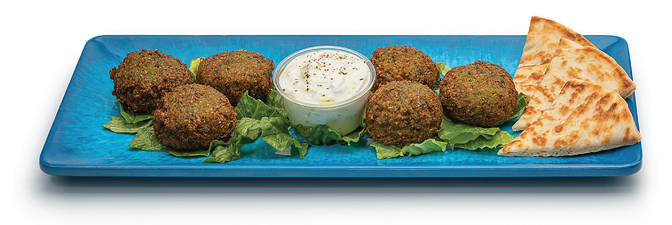
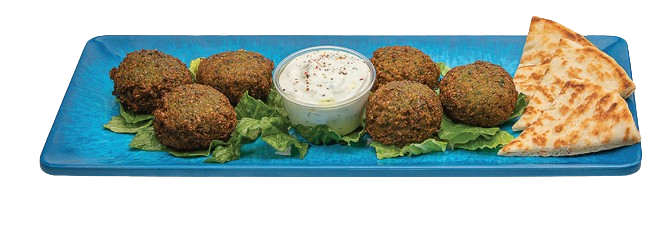
last version

diff --git a/index.html b/index.html
@@ -227,8 +227,11 @@
                 <p>
                   The Federal Trade Commission regulates what
                   <span>Spartan Gyros®</span> is allowed to disclose to
-                  potential franchisees. As you follow the process of purchasing
-                  a <span>Spartan Gyros®</span> business, you will receive the
+                  potential franchisees.
+                  <br />
+                  <br />
+                  As you follow the process of purchasing a
+                  <span>Spartan Gyros®</span> business, you will receive the
                   Franchise Disclosure Document (FDD) that details more about
                   the business opportunity and your expected startup expenses.
                 </p>
@@ -312,47 +315,56 @@
           <div class="respond-bloc-content">
             <div class="respond-header">
               <img src="/icons/ic_check.svg" alt="" />
-              <h1>Will you train the store’s employees?</h1>
+              <div>
+                <h1>Will you train the store’s employees?</h1>
+                <p>
+                  Initially, you must have two full-time people working the
+                  business, one of which must be you. One must be responsible
+                  for business operations and management; the other must always
+                  be a
+                  <span
+                    >Certified Spartan Gyros Specialist (SPARTAN GYROS
+                    SPECIALIST).</span
+                  >
+                  Both of you must successfully complete our initial training
+                  program. We will decide whether you and your
+                  <span>SPARTAN GYROS SPECIALIST</span>successfully complete the
+                  initial training program based upon knowledge test results and
+                  our observations of your ability to use the knowledge
+                  effectively.
+                </p>
+              </div>
             </div>
-            <p>
-              Initially, you must have two full-time people working the
-              business, one of which must be you. One must be responsible for
-              business operations and management; the other must always be a
-              <span
-                >Certified Spartan Gyros Specialist (SPARTAN GYROS
-                SPECIALIST).</span
-              >
-              Both of you must successfully complete our initial training
-              program. We will decide whether you and your
-              <span>SPARTAN GYROS SPECIALIST</span>successfully complete the
-              initial training program based upon knowledge test results and our
-              observations of your ability to use the knowledge effectively.
-            </p>
           </div>
         </div>
         <div class="respond-bloc">
           <div class="respond-bloc-content">
             <div class="respond-header">
               <img src="/icons/ic_check.svg" alt="" />
-              <h1>How can you guarantee top quality products?</h1>
+              <div>
+                <h1>How can you guarantee top quality products?</h1>
+                <p>
+                  <span>At Spartan Gyros, quality is our priority: </span>
+                  <br />
+                  <br />
+                  <span>Premium Sourcing:</span> We select the finest local
+                  ingredients for authentic Greek flavors.
+                  <br />
+                  <br />
+                  <span>Expert Chefs:</span> Our skilled chefs ensure excellence
+                  in every dish, emphasizing freshness and taste.
+                  <br />
+                  <br />
+                  <span>Stringent Control: </span> We maintain strict quality
+                  control measures at every stage of preparation.
+                  <br />
+                  <br />
+                  <span>Freshness Commitment:</span> Our menu highlights the
+                  vibrant taste that comes from using only the freshest
+                  ingredients.
+                </p>
+              </div>
             </div>
-            <p>
-              <span>At Spartan Gyros, quality is our priority: </span> <br />
-              <span>Premium Sourcing:</span> We select the finest local
-              ingredients for authentic Greek flavors.
-              <br />
-              <br />
-              <span>Expert Chefs:</span> Our skilled chefs ensure excellence in
-              every dish, emphasizing freshness and taste.
-              <br />
-              <br />
-              <span>Stringent Control: </span> We maintain strict quality
-              control measures at every stage of preparation.
-              <br />
-              <br />
-              <span>Freshness Commitment:</span> Our menu highlights the vibrant
-              taste that comes from using only the freshest ingredients.
-            </p>
           </div>
           <div class="respond-bloc-2">
             <img src="/img/plato2.png" alt="" />
@@ -376,42 +388,47 @@
           <div class="respond-bloc-content">
             <div class="respond-header">
               <img src="/icons/ic_check.svg" alt="" />
-              <h1>
-                How often are products sent to each <br />
-                store?
-              </h1>
+              <div>
+                <h1>
+                  How often are products sent to each <br />
+                  store?
+                </h1>
+                <p>
+                  We ensure a seamless supply chain at
+                  <span>Spartan Gyros®</span> by providing you with detailed
+                  lists of products to be purchased on a weekly, bi-weekly, and
+                  monthly basis. <span></span><br />
+                  <br />
+                  Our procurement process involves partnering with major
+                  distribution companies to secure the highest quality
+                  ingredients for our authentic Greek dishes. This proactive
+                  approach ensures a consistent and reliable source of premium
+                  products, allowing us to maintain the quality that defines
+                  <span>Spartan Gyros®</span>.
+                </p>
+              </div>
             </div>
-            <p>
-              We ensure a seamless supply chain at Spartan Gyros® by providing
-              you with detailed lists of products to be purchased on a weekly,
-              bi-weekly, and monthly basis.
-              <span></span><br />
-              <br />
-              Our procurement process involves partnering with major
-              distribution companies to secure the highest quality ingredients
-              for our authentic Greek dishes. This proactive approach ensures a
-              consistent and reliable source of premium products, allowing us to
-              maintain the quality that defines <span>Spartan Gyros®</span>.
-            </p>
           </div>
         </div>
         <div class="respond-bloc">
           <div class="respond-bloc-content">
             <div class="respond-header">
               <img src="/icons/ic_check.svg" alt="" />
-              <h1>
-                At least how many employees are <br />necessary to operate a
-                franchise?
-              </h1>
+              <div>
+                <h1>
+                  At least how many employees are <br />necessary to operate a
+                  franchise?
+                </h1>
+                <p>
+                  The staffing requirements for a
+                  <span>Spartan Gyros®</span> franchise depend on factors like
+                  restaurant size and customer volume. Typically, roles include
+                  chefs, kitchen staff, front-of-house staff, managerial staff,
+                  and cleaning staff. Staffing needs are tailored to the
+                  specific operations and size of each franchise location.
+                </p>
+              </div>
             </div>
-            <p>
-              The staffing requirements for a
-              <span>Spartan Gyros®</span> franchise depend on factors like
-              restaurant size and customer volume. Typically, roles include
-              chefs, kitchen staff, front-of-house staff, managerial staff, and
-              cleaning staff. Staffing needs are tailored to the specific
-              operations and size of each franchise location.
-            </p>
           </div>
           <div class="respond-bloc-2">
             <img src="/img/Pita-Gyro+Fries.png" alt="" />

diff --git a/index.css b/index.css
@@ -63,6 +63,9 @@
   bottom: -100px;
   width: 100%;
 }
+.plates-hero > img:first-child {
+  filter: drop-shadow(10px 10px 10px rgba(0, 0, 0, 0.6));
+}
 
 /* Responsive's 1  */
 @media (max-width: 1380px) {
@@ -109,20 +112,15 @@
 }
 @media (max-width: 700px) {
   .plates-hero {
-    flex-direction: column;
+    bottom: 0px;
   }
   .plates-hero > img:first-child {
-    width: 300px;
+    width: 150px;
   }
   .plates-hero > img:last-child {
-    width: 428px;
+    width: 250px;
   }
-  .plates-hero > img:first-child {
-    width: 200px;
-  }
-  .plates-hero > img:last-child {
-    width: 428px;
-  }
+
   .nav-content > img {
     width: 250px;
   }
@@ -136,15 +134,15 @@
 /* Start Second section */
 .second-section {
   display: flex;
-  align-content: center;
+  align-items: center;
   justify-content: center;
-  padding: var(--container);
+  padding: 0px var(--container);
   margin: auto;
   margin-top: 200px;
   max-width: 1600px;
 }
 .second-img-content {
-  height: 703px;
+  height: 500px;
   position: relative;
 }
 .img-circl {
@@ -192,7 +190,7 @@
     max-width: 100%;
   }
   .second-img-content {
-    height: 100%;
+    height: 350px;
   }
 }
 /* End Second section */
@@ -231,7 +229,7 @@
   grid-template-columns: repeat(auto-fill, minmax(558px, 1fr));
   gap: var(--gap-11xl);
   margin-top: var(--mar-padd-21xl);
-  padding: var(--container);
+  padding: 0px var(--container);
 }
 
 .faq-card {
@@ -431,11 +429,13 @@
   padding-bottom: var(--container-xl);
   max-width: 1600px;
   margin: auto;
+  gap: var(--gap-11xl);
 }
 .informatioin-row {
   display: flex;
   flex-direction: column;
   gap: var(--gap-11xl);
+  flex: 1;
 }
 .informatioin-row > .support-card > .support-card-content > h1 {
   margin: 0px;
@@ -483,20 +483,21 @@
   gap: var(--gap-11xl);
   flex: 1;
 }
-.respond-bloc-content > p {
-  color: var(--gray);
-}
-.respond-bloc-content > p > span {
-  font-weight: 700;
-}
+
 .respond-header {
   display: flex;
   align-items: start;
   gap: var(--gap-xl);
 }
-.respond-header > h1 {
+.respond-header > div > h1 {
   margin: 0px;
   font-size: var(--font-size-7xl);
+}
+.respond-header > div > p {
+  color: var(--gray);
+}
+.respond-header > div > p > span {
+  font-weight: 700;
 }
 .respond-bloc-2 {
   flex: 1;
@@ -558,7 +559,7 @@
   position: relative;
   z-index: 1;
   width: fit-content;
-  padding: var(--mar-padd-11xl);
+  padding: var(--mar-padd-61xl);
   border-radius: var(--br-3xs);
   background: var(--white);
   box-shadow: var(--shadow);
@@ -571,7 +572,7 @@
   display: grid;
   grid-template-columns: repeat(2, minmax(300px, 1fr));
   gap: var(--gap-11xl);
-  padding: var(--mar-padd-61xl) var(--mar-padd-xl) var(--mar-padd-xl);
+  padding: var(--mar-padd-61xl) 0px var(--mar-padd-xl);
   color: var(--blue);
 }
 .footer-form > p {
@@ -589,7 +590,8 @@
 .input-form {
   border: none;
   padding: var(--mar-padd-lg);
-  border-bottom: 1px solid var(--blue); /* Corrected */
+  opacity: 0.5;
+  border-bottom: 0.7px solid var(--blue); /* Corrected */
   outline: none;
   width: 100%;
 }
@@ -611,8 +613,12 @@
   gap: 10px;
   top: -64px;
 }
-.footer-message > div {
+.footer-message > div,
+.chat-with-your7 {
   color: var(--white);
+}
+.chat-with-your7 {
+  font-size: 28px;
 }
 
 @media (max-width: 1000px) {
